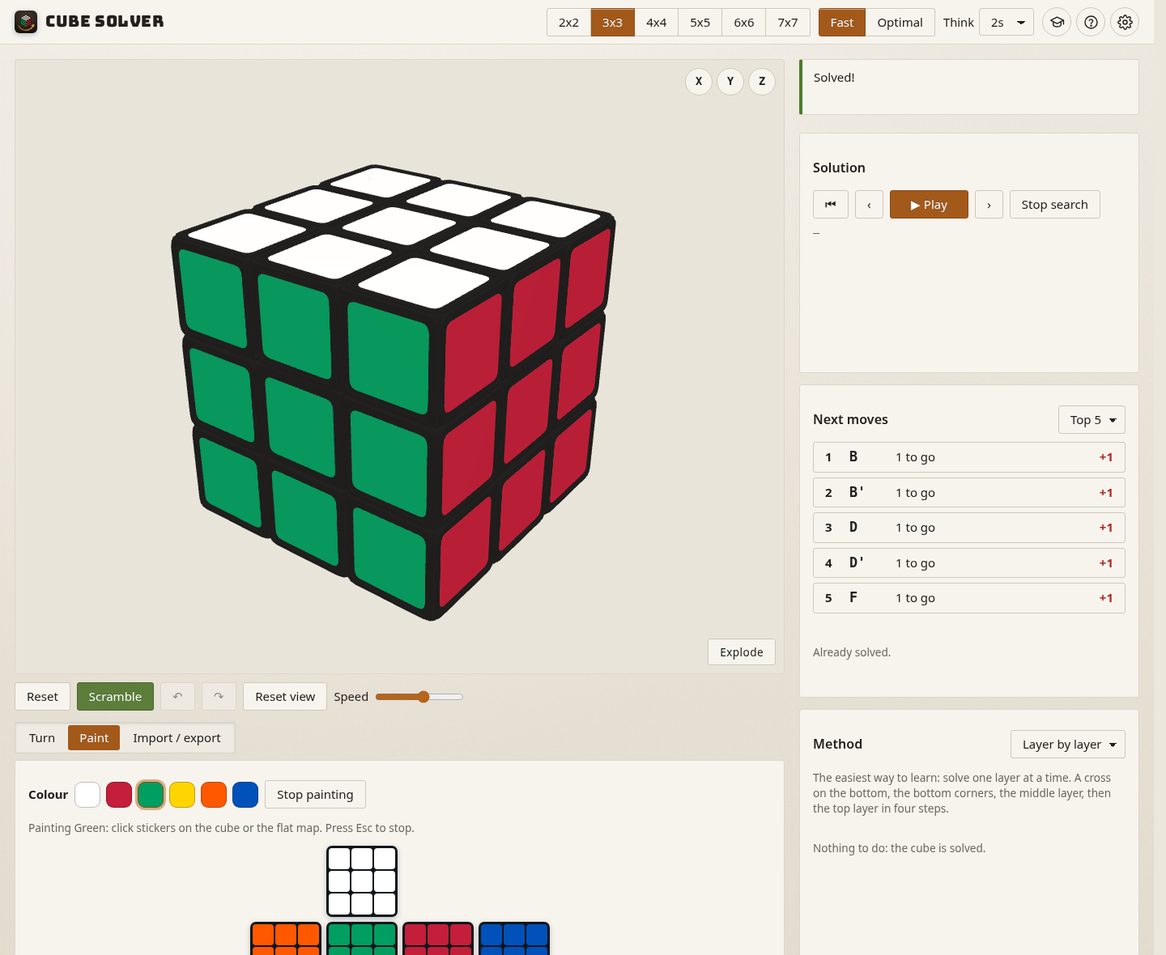
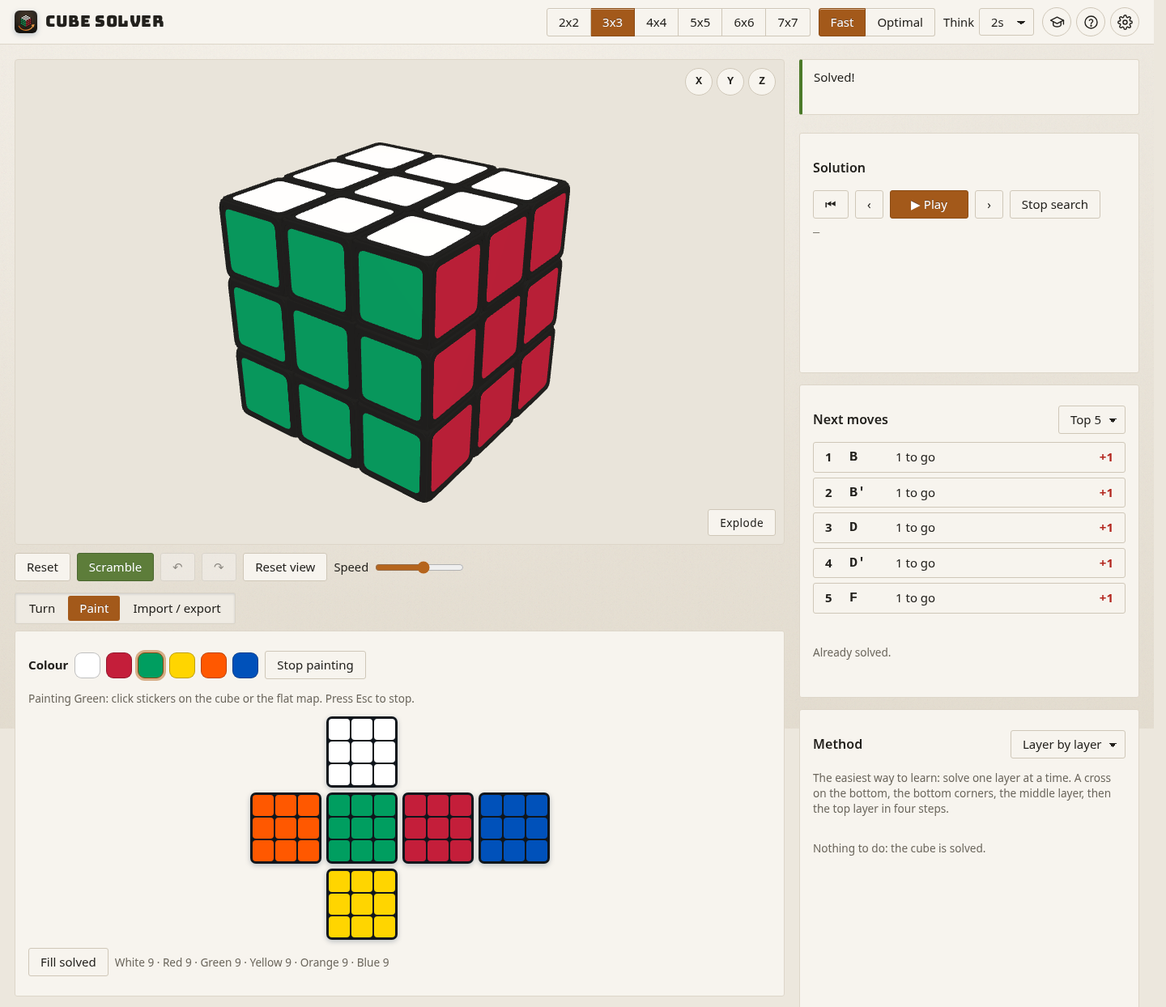
Rewrite the README for the whole app and retake the paint and Settings screenshots

diff --git a/README.md b/README.md
@@ -3,9 +3,9 @@
 <h1 align="center">Cube Solver</h1>
 
 <p align="center">
-  Set up any 2x2 or 3x3 Rubik's cube, by scrambling, turning or painting stickers, and get<br />
-  optimal or near-optimal solutions, ranked next moves, and step-by-step CFOP, Roux, ZZ<br />
-  or layer-by-layer breakdowns, all animated on a 3D cube you can grab and turn.
+  Set up any cube from 2x2 to 7x7, by scrambling, turning or painting stickers, and get<br />
+  solutions (optimal on the 2x2 and 3x3), next moves ranked by distance, and step-by-step<br />
+  breakdowns, all animated on a true-to-life 3D cube you can grab, turn, zoom into and take apart.
 </p>
 
 <p align="center">
@@ -38,50 +38,45 @@
 
 ## Contents
 
-[Features](#features) · [Download](#download) · [Quick start](#quick-start) · [Tutorial](#tutorial) · [Controls](#controls-and-shortcuts) · [Solvers](#how-the-solvers-work) · [Web / PWA / desktop builds](#building-and-packaging) · [Troubleshooting](#troubleshooting) · [Architecture](#architecture) · [Testing](#testing) · [Releasing](#releasing) · [License](#license)
+[Features](#features) · [Download](#download) · [Quick start](#quick-start) · [Tutorial](#tutorial) · [Controls](#controls-and-shortcuts) · [Solvers](#how-the-solvers-work) · [The 3D cube](#the-3d-cube) · [Theming](#theming) · [Builds](#building-and-packaging) · [Troubleshooting](#troubleshooting) · [Architecture](#architecture) · [Testing](#testing) · [Releasing](#releasing) · [Brand assets](#brand-assets) · [License](#license)
 
 ## Features
 
-**Cubes and input**
-- 2x2 to 7x7 cubes in 3D modelled on the real puzzles: hollow pieces with inset stickers, and the 6x6 and 7x7 with pillowed (spherical) faces. Drag a sticker to turn its layer, with mouse, pen or touch. Drag the background to look around (or right-drag / Shift-drag from anywhere), and scroll or pinch to zoom.
-- Keyboard turns for every face (U R F D L B), the middle slices (M E S) and whole-cube rotations (x y z). Add Shift for counter-clockwise. Small **X Y Z** buttons in the corner of the cube view do the same whole-cube rotations (Shift-click for prime).
-- A move pad with all 36 turns, and a box for typing algorithms in standard notation (`R U R' U'`, `F2`, `M'`, `Rw`, `x`).
-- **Setup:** paint any sticker from the colour menu, either on the 3D cube or on a **flat 2D net editor**. The net is all buttons, so it works from the keyboard and with screen readers.
-- **Solvability check:** impossible states are explained, for example wrong colour counts, a corner that can't exist, a twisted corner, a flipped edge, or two swapped pieces (parity).
-- **Reset**, random-state **Scramble** (every position equally likely). The scramble plays turn by turn, a bit quicker than normal playback, and every turn goes into the history, so **Undo** walks back through it one turn at a time until the cube is solved again. Click any move in the **history** to walk there, forwards or backwards, one animated turn at a time.
-- **Import/export:** facelet string (Kociemba's URFDLB format), JSON (state, moves and solution), the solution as text, a downloadable `.json`, and **share links** that carry the cube state in the URL.
+**Cubes**
+- **Six sizes, 2x2 to 7x7**, switched with the size buttons or keys <kbd>2</kbd>–<kbd>7</kbd>. Every size starts solved.
+- **True to life in 3D:** hollow plastic pieces with rounded edges, and stickers set slightly into each piece with a black ridge around them, in every theme. The 2x2 to 5x5 are flat; the 6x6 and 7x7 have **pillowed faces** like the V-Cube 6b and 7, a true spherical curve through each face's corners that bends the pieces themselves.
+- **Exploded view** on every size shows the real mechanism inside (see [The 3D cube](#the-3d-cube)).
+- **Zoom right into the cube:** scroll or pinch from 2.5x out to a few hundredths of a cubie from the centre, to look at the mechanism from inside.
 
-- **Exploded view** (**Explode** button in the cube view, or <kbd>G</kbd>) works on 2x2 and 3x3. Every piece glides outward along the line from the cube's centre to its home slot, so corners travel furthest and centres least. The motion is ease-in-out over 0.9 s, with a slight sweep around the cube. Dashed cyan guide lines trace each piece back to its slot, faint violet ghost outlines mark the empty slots, and a perspective grid fades in below. **Assemble** (or <kbd>G</kbd> again) reverses smoothly from wherever the animation is. While exploded, orbiting and painting still work, and layer turns, undo/redo and solution playback pause with a short hint, so the cube's state can never get out of step with the picture. Reduced motion makes it instant. On the 2x2 the pieces spread farther, the camera pulls back to keep everything in frame, and the internal mechanism appears: six thin axle spindles meeting at the centre (no core block), springs and screws under hidden centre caps that lift slightly clear, and the foot on each corner that clips under the caps, so the corners float around the axles. On the 3x3 the inside of a real cube appears: a fixed core with six arms, and hollow centres, each a shell open toward the core with an inner tube the arm enters. The centre's outer face is flat (the covered cap recess is folded into it). The screw runs from under the face through the tube into the arm, with the spring in the tube under its head, so nothing ever shows on the face. The screw and spring belong to the centre: on explode each whole centre assembly slides off its arm as one rigid unit, and the screw and spring show only through its open inner side. Edges and corners have no holes; edge feet ride in the track under the centres and corner feet sit under the edges. The mechanism is matte grey plastic and only shows while exploded.
+**Turning and setup**
+- **Drag a sticker** to turn its layer, with mouse, pen or touch, on any size and any layer, from any viewing angle. Drag the background (or right-drag / <kbd>Shift</kbd>-drag anywhere) to look around.
+- **Keyboard:** U R F D L B turn the faces, M E S the 3x3 slices, x y z rotate the whole cube; <kbd>Shift</kbd> for counter-clockwise. **X Y Z** buttons on the cube view do the rotations too.
+- A **move pad** and a box for typing algorithms (`R U R' U'`, `F2`, `M'`, `Rw`, `x`, and on big cubes SiGN layers such as `2R` or `3Rw`).
+- **Paint** a real cube's colours on the 3D cube or on a flat **net** that scales to fit any size. The net is all buttons, so it works from the keyboard and with screen readers.
+- **Solvability check:** impossible states are explained (wrong colour counts, impossible or twisted corners, flipped edges, parity).
+- **Import / export:** facelet strings, JSON, the solution as text, a downloadable `.json`, and **share links** that carry the cube in the URL.
+
+**Scrambles, history and playback**
+- **Scramble** plays turn by turn, a little faster than normal playback (about 1.75x the speed slider, 60–260 ms a turn), and every turn goes into the history. Random-state on the 2x2 and 3x3; random single-layer turns on big cubes (40 on a 4x4 up to 100 on a 7x7).
+- **Two-way timeline:** the **History** list shows every move, scrambles included. Click any move to walk there, forwards or backwards, one animated turn at a time; **Undo**/**Redo** step through it.
+- **Solution timeline:** play/pause, step forward and back, back to start, or click any move to play up to it. Long solutions scroll in their own box that follows the current move, with the controls always in view.
+- **Speed slider** sets the pace of every animation: turns, solutions, method steps and scrambles. The system's reduced-motion setting is respected.
 
 **Solving**
-- **2x2: always optimal.** A complete table of all 3,674,160 positions (built in under a second) gives the shortest solution and the exact distance for every candidate move.
-- **3x3 Fast:** Kociemba's two-phase algorithm. It finds about 20 moves in milliseconds, keeps improving while it thinks, and streams every better solution to the screen. Positions within about 12 quarter turns of solved are also proven optimal automatically.
-- **3x3 Optimal:** Korf-style IDA* with five pattern databases (two corner groups and three five-edge groups) for the proven-shortest solution in quarter turns. It shows live progress (depth proven, positions searched) and can be stopped at any time. If the think time runs out, you get the fast solution plus how far the proof reached.
-- **Ranked next moves:** all 12 quarter turns, each with its distance to solved and the change it makes (-1 is progress). Proven distances are shown plainly; estimates are marked with ≈. Ties are broken by a proven lower bound.
-- **Method breakdowns** for the 3x3:
-  - **Layer by layer:** cross, first-layer corners, middle layer, then the last layer in four steps.
-  - **CFOP:** cross, four F2L pairs (the easiest pair first), then two-look OLL and two-look PLL.
-  - **Roux:** first block, second block, CMLL, then the last six edges with M and U.
-  - **ZZ:** EOLine (edge orientation solved exactly, then DF and DB placed), F2L with R, U and L only, then the last layer.
-
-  Each step is named and counted. Play any step on its own, or play them all.
-- **Notation everywhere:** standard WCA notation. Counts use the **quarter-turn metric** (U2 counts as two), with the half-turn count alongside.
-- **Playback:** play/pause, step forward and back, back to start, click any move to play up to it, and adjustable animation speed. Long queues speed up automatically, and the system's reduced-motion setting is respected.
+- **2x2: always optimal** from a complete table of all 3,674,160 positions.
+- **3x3 Fast:** Kociemba's two-phase algorithm, about 20 moves in milliseconds, improving while it thinks.
+- **3x3 Optimal:** IDA* with pattern databases for the proven-shortest solution, with live progress and a Stop button.
+- **4x4 to 7x7: reduction**, the way people solve them by hand: parity, centres, edges, then the 3x3 stage.
+- **Next moves ranked by distance:** every possible turn with how far it leaves you from solved and the change it makes (−1 is progress). Proven distances are shown plainly; estimates are marked ≈ (always on big cubes).
+- **Methods:** Layer by layer, CFOP, Roux and ZZ on the 3x3; the reduction steps on big cubes. Each step is named and counted; play one step or all of them.
+- Counts use the **quarter-turn metric** (U2 counts as two), with the half-turn count alongside.
 
 **App**
-- Runs in the **browser**, installs as an offline **PWA**, and installs on **Windows** as a desktop app of about 2 MB (Tauri).
-- **Update check** against GitHub releases: automatic at startup in release builds, and on demand with ⟳.
-- **Frutiger Aero look:** glossy glass panels over a sky-and-bubbles backdrop, aqua pill buttons with a specular top half, a sky-blue and fresh-green palette, soft layered shadows, and lacquered stickers on the 3D cube. Light and dark (night-sky glass) variants follow the system until you pick one with the moon button.
-- Built on design tokens, so the planned neon and matte skins are just variable sets (preview with `?skin=neon` or `?skin=matte`). Respects reduced motion and reduced transparency (solid panels, no blur). Settings are remembered.
-- An interactive tutorial (below), a keyboard shortcut sheet, an error banner with Reload if anything goes wrong, and a solver that restarts itself if it crashes.
-- A responsive layout for phones and tablets. Every control has an accessible name, and keyboard focus is always visible.
-- The UI thread never runs solver work: everything heavy happens in a Web Worker, and solver tables are cached in IndexedDB.
-
-**Tutorial**
-- An interactive **notation course** of 14 short lessons: the faces U D L R F B, prime ('), double (2), the slices M E S, wide moves (Rw), the rotations x y z, and quarter-turn counting. Each lesson spotlights the layer on the 3D cube, animates the move, then asks you to play it and checks your answer. Ends with a 6-question quiz.
-- A 10-step **spotlight tour** of the app. It highlights each part, lets you try it right there, and uses touch wording on phones.
-- Offered on first launch, can be skipped, and is always available from the 🎓 Tutorial menu, where you can resume where you stopped or replay. Progress is saved.
-- Wide-screen layout: the cube and its panel use all the spare width, the side panel keeps one width, and buttons never jump around. Long solutions and the history scroll in their own boxes, following the current move, with the play controls always in view. The paint map shrinks to fit even a 7x7.
+- Runs in the **browser**, installs as an offline **PWA**, and installs on **Windows** as a desktop app of about 2 MB (Tauri 2).
+- **Four themes** (Matte, Frutiger Aero, Neon, Neubrutalism), each light and dark, in **Settings** (⚙) with the update check and About.
+- An interactive **tutorial** and app **tour**, a shortcut sheet, an error banner with Reload, and a solver that restarts itself if it crashes.
+- A wide-screen layout whose buttons stay put: fixed panel heights and a reserved scrollbar gutter, so nothing shifts as solutions and analysis change. It folds to one column on phones and tablets. Every control has an accessible name and visible focus.
+- Solver work never runs on the UI thread: it happens in a Web Worker, and solver tables are cached in IndexedDB.
 
 ## Download
 
@@ -141,7 +136,7 @@ The dots across the top jump to any lesson, and **Show again** repeats the demon
 11. Share and export
 
 - **Try it in place.** Clicks inside the spotlight reach the real control. A step can ask you to spin the view, drag a sticker or press Scramble, and the tour stays open. The dimmed area is four click-catching rectangles around the hole, not a full-screen blocker.
-- **Navigation.** An "N of 10" counter, plus **Skip**, **Back** and **Next** (**Done** on the last step). The ← → keys move between steps. **Esc** or clicking the dimmed area closes the tour. Nothing advances on its own.
+- **Navigation.** An "N of 11" counter, plus **Skip**, **Back** and **Next** (**Done** on the last step). The ← → keys move between steps. **Esc** or clicking the dimmed area closes the tour. Nothing advances on its own.
 - **Placement.** The card parks beside large targets such as the 3D cube, and below or above small ones, always on screen. On phones it docks to the bottom. Each target is scrolled into view first, and everything repositions on resize and scroll.
 - **Adapting.** Steps whose target isn't visible, such as the 3x3-only method card on a 2x2, are dropped. On touch screens the steps say "tap" and "swipe" instead of "click" and "drag".
 - **Accessibility.** The card is a modal dialog with a focus trap. Tab stays inside it, and closing returns focus to where you were.
@@ -153,21 +148,21 @@ The dots across the top jump to any lesson, and **Show again** repeats the demon
 
 | Control | What it does |
 |---|---|
-| Drag a sticker | Turn that layer in the drag direction (outer layers and, on the 3x3, the middle slices) |
+| Drag a sticker | Turn that layer in the drag direction: any layer, any size, any viewing angle |
 | Drag the background | Rotate the view |
 | Right-drag, or <kbd>Shift</kbd>+drag | Rotate the view from anywhere, even starting on a sticker (it never turns a layer) |
-| Scroll / pinch | Zoom (all the way inside the cube to see the mechanism) |
+| Scroll / pinch | Zoom, from 2.5x out to right inside the cube to see the mechanism |
 | **Reset** (<kbd>Alt</kbd>+<kbd>R</kbd>) | Back to solved |
 | **Scramble** (<kbd>Alt</kbd>+<kbd>S</kbd>) | Random-state scramble, played turn by turn from solved (about 1.75x the slider speed, 60-260 ms a turn) and recorded in the history; its moves appear in the move box. Undo or any new action stops it where it is |
 | ↶ / ↷ (<kbd>Ctrl</kbd>+<kbd>Z</kbd> / <kbd>Ctrl</kbd>+<kbd>Y</kbd> or <kbd>Ctrl</kbd>+<kbd>Shift</kbd>+<kbd>Z</kbd>) | Undo / redo a move |
 | **Reset view** (<kbd>Alt</kbd>+<kbd>V</kbd>) | The standard view: white on top, green in front (so red is R and orange is L), seen from slightly above with the front-right corner toward you. The camera is re-centred on the cube and its distance is fitted to the window (field of view and aspect), so the whole cube shows with a margin on any screen. The first load uses the same framing. Also undoes any x/y/z rotations, played as rotation moves so history stays consistent |
-| **Speed** slider | Animation speed |
+| **Speed** slider | Pace of every animation: turns, solution and method playback, scrambles |
 | <kbd>U</kbd> <kbd>R</kbd> <kbd>F</kbd> <kbd>D</kbd> <kbd>L</kbd> <kbd>B</kbd> | Turn a face clockwise; with <kbd>Shift</kbd>, counter-clockwise |
 | <kbd>M</kbd> <kbd>E</kbd> <kbd>S</kbd> | Middle slices (3x3 only) |
 | <kbd>X</kbd> <kbd>Y</kbd> <kbd>Z</kbd>, or the **X Y Z** buttons on the cube | Rotate the whole cube a quarter turn (x like R, y like U, z like F); <kbd>Shift</kbd>+key or <kbd>Shift</kbd>+click for the prime. Rotations move no pieces |
-| <kbd>G</kbd>, or **Explode** / **Assemble** | Exploded view on and off. Turns pause while exploded; orbiting and painting work |
-| <kbd>2</kbd> / <kbd>3</kbd>, or the **2x2 / 3x3** buttons | Switch cube size (starts solved) |
-| **Fast / Optimal** | 3x3 solver mode |
+| <kbd>G</kbd>, or **Explode** / **Assemble** | Exploded view with the mechanism, on every size. Turns pause while exploded; orbiting and painting work |
+| <kbd>2</kbd>–<kbd>7</kbd>, or the size buttons | Switch cube size, 2x2 to 7x7 (starts solved) |
+| **Fast / Optimal** | 3x3 solver mode (the 2x2 is always optimal; big cubes use reduction) |
 | **Think** | Time limit for the search (1–60 s) |
 | <kbd>Space</kbd> / **▶ Play** | Play or pause the solution |
 | <kbd>→</kbd> / <kbd>←</kbd>, **›** / **‹** | Step the solution forward / back |
@@ -175,7 +170,7 @@ The dots across the top jump to any lesson, and **Show again** repeats the demon
 | Click a solution move | Play up to that move |
 | Click a candidate | Play that move |
 | **Stop search** | Stop thinking and keep the best solution so far |
-| **Method** menu | Layer by layer, CFOP, Roux or ZZ; **Play step** / **Play all steps** |
+| **Method** menu | Layer by layer, CFOP, Roux or ZZ on the 3x3; reduction steps on big cubes. **Play step** / **Play all steps** |
 | **History** | Click any move to walk there, forwards or backwards, one animated turn at a time; • is the start, the highlighted move is where you are. ← steps back through the history when no solution is being followed |
 | **Paint** tab | Colour swatches (<kbd>1</kbd>–<kbd>6</kbd>), then click stickers on the cube or the net; <kbd>0</kbd> or <kbd>Esc</kbd> stops painting. With no colour picked, clicking a net sticker cycles its colour |
 | **Fill solved** | Reset the net to a solved cube |
@@ -184,7 +179,7 @@ The dots across the top jump to any lesson, and **Show again** repeats the demon
 | **🎓** | Tutorial menu: notation lessons, quiz and app tour (resume or replay) |
 | **⚙** | Settings: theme and light/dark/system, Check for updates, and About (the version). <kbd>Esc</kbd> closes it |
 
-**Facelet string format:** 54 letters (24 for the 2x2), one per sticker, faces in the order U, R, F, D, L, B, each read row by row as on the unfolded net, using the face letters as colours. A solved 3x3 is `UUUUUUUUURRRRRRRRRFFFFFFFFFDDDDDDDDDLLLLLLLLLBBBBBBBBB`. Share links use the same string: `#n=3&f=<facelets>`.
+**Facelet string format:** 6·N² letters (24 for the 2x2, 54 for the 3x3, 294 for the 7x7), one per sticker, faces in the order U, R, F, D, L, B, each read row by row as on the unfolded net, using the face letters as colours. A solved 3x3 is `UUUUUUUUURRRRRRRRRFFFFFFFFFDDDDDDDDDLLLLLLLLLBBBBBBBBB`. Share links use the same string: `#n=<size>&f=<facelets>`.
 
 ## How the solvers work
 
@@ -214,7 +209,24 @@ Inner layers use SiGN notation: `2R` turns only the second layer from the right,
 
 **Next moves on big cubes** rank every single-layer quarter turn by the length of the reduction solution from the resulting position. That measures progress through the reduction, not a proven distance, so every number is marked ≈.
 
-**Mechanism.** The exploded 4x4 shows the Rubik's Revenge ball core: eight raised triangles leave three grooves that the centres' cams ride in, while edges and corners hook onto their neighbours. The 5x5 to 7x7 show the V-Cube design: a solid cross with every piece on a conical stalk ending in a curved foot, the corners reaching nearly to the centre (the 6x6's cross ends in six hidden fixed centres). On odd cubes the edges are paired to their middle piece (midge), so parity there is just the one inner-slice turn.
+On odd cubes the edges are paired to their middle piece (midge), so parity there is just the one inner-slice turn; even cubes take their colour scheme from a corner.
+
+## The 3D cube
+
+The cube is drawn with three.js. Each piece is a hollow shell, open toward the core, with rounded edges and a raised black ridge around a slightly recessed rounded sticker. Pieces of the same shape share one geometry, so even the 7x7 (about 1,050 meshes) orbits smoothly.
+
+**Pillowing.** The 6x6 and 7x7 faces are each a spherical cap through the face's four corners (bulging 0.42 and 0.48 cubie units at the middle). The pieces bend with it, not just the stickers, so the plastic and stickers stay flush. The 2x2 to 5x5 stay flat, like the common real puzzles.
+
+**Exploded view** (**Explode**, or <kbd>G</kbd>). Every piece glides outward along the line from the centre to its home slot, with dashed guide lines back to each slot, ghost outlines of the empty slots and a grid below. **Assemble** reverses smoothly from wherever the animation is. While exploded, orbiting and painting still work, and turns and playback pause with a hint, so the picture never gets out of step with the cube. Every mechanism part is drawn from both sides, so nothing vanishes when you zoom in among them. The mechanism in each size follows the real design:
+
+| Size | Mechanism shown | Based on |
+|---|---|---|
+| 2x2 | Six thin axle spindles meeting at the centre, springs and screws under hidden centre caps, and a foot on each corner clipping under the caps | The common 2x2 design with a hidden 3x3-style core |
+| 3x3 | A fixed core with six arms; hollow centres with a tube the arm enters, the screw and spring inside; edge feet in the track under the centres, corner feet under the edges | The standard 3x3 mechanism |
+| 4x4 | A ball core carrying eight raised spherical triangles that leave three perpendicular grooves; only the centres reach the ball, on cams in the grooves; edges hook onto centres and corners onto edges | Sebestény's Rubik's Revenge, [US 4,421,311](https://patents.google.com/patent/US4421311A); Wikipedia "Rubik's Revenge"; twistypuzzles.com puzzle database |
+| 5x5–7x7 | A solid 3D cross; every piece is a cubic part on a conical stalk ending in a foot that is a piece of a spherical shell; the corners reach nearly to the centre; odd cubes screw their fixed centres to the cross, and the 6x6's cross ends in six hidden fixed centres | Verdes' V-Cube, EP1599261 / US 2007/0057455; Wikipedia "V-Cube 6", "V-Cube 7" and "Professor's Cube"; v-cubes.com and its 2026 catalogue |
+
+The 5x5 stays flat because the common real 5x5 is flat (V-Cube offers pillowed versions of every size "except the V-5"). The research notes are in [PLAN.md §10](PLAN.md).
 
 ## Theming
 
@@ -226,7 +238,7 @@ The look is built in two layers:
 | Components | `src/style.css` | Panels, buttons, tabs, toggles, dialogs, tour and coach cards. These read tokens only (a test fails if they use an undeclared one) |
 | Scene | `src/theme/skins.ts` | The 3D side of each skin: plastic colour and roughness, sticker clear-coat gloss, and ambient, key, sky and rim lights for light and dark |
 
-There are four themes. Pick one in **Settings** (the gear at the top right), or with **Settings…** in the help menu. Settings also holds Check for updates and the version (About). The choice applies instantly and is saved (`cube-solver-skin` and `cube-solver-theme` in `localStorage`).
+There are four themes. Pick one in **Settings** (⚙ at the top right, or **Settings…** in the help menu), along with Light, Dark or System. Settings also holds **Check for updates** and **About** (the version). It is a modal dialog: keyboard and touch friendly, <kbd>Esc</kbd> or a click outside closes it, and the chosen options are marked with a fill and a ✓. The choice applies instantly and is saved (`cube-solver-skin` and `cube-solver-theme` in `localStorage`).
 
 | Theme | Modes | Look |
 |---|---|---|
@@ -235,22 +247,10 @@ There are four themes. Pick one in **Settings** (the gear at the top right), or 
 | **Neon** | Light, dark | Dark: deep surfaces, glowing cyan edges and a faint grid that pair with the exploded view's glow lines. Light: bright clean surfaces with the same glowing cyan/violet edges and grid |
 | **Neubrutalism** | Light, dark | Flat bold colours and thick outlines with hard offset shadows: black on cream in light, light outlines with shadows in cube colours on charcoal in dark |
 
-Each theme also has its own corners, set by tokens per size tier (panel, card, control, chip): Matte uses 2-4px radii with a hairline double-line edge; Aero rounds only the top corners with a gloss band; Neon chamfers panel corners with a glowing line along each cut; Neubrutalism stays nearly square and lets the heavy outline and offset shadow do the work. Focus rings follow each shape. Every theme has light and dark, each with its own 3D lighting and plastic. Light, Dark or System applies to all of them; System follows the OS setting live, without a reload. `?skin=neon` (or `matte`, `aero`, `brutal`) previews a theme without saving it. Every theme defines every token, which a test checks. Under reduced transparency, panels become solid and blur is turned off; reduced motion also removes the Neubrutalism press nudge. Contrast is checked in tests to meet WCAG AA for body text, muted text and text on buttons in every theme. Selects and their native option lists take solid colours from the theme so they stay readable on Windows.
+The title uses the bundled Bungee font, styled per theme. Each theme also has its own corners, set by tokens per size tier (panel, card, control, chip): Matte uses 2-4px radii with a hairline double-line edge; Aero rounds only the top corners with a gloss band; Neon chamfers panel corners with a glowing line along each cut; Neubrutalism stays nearly square and lets the heavy outline and offset shadow do the work. Focus rings follow each shape. Every theme has light and dark, each with its own 3D lighting and plastic. Light, Dark or System applies to all of them; System follows the OS setting live, without a reload. `?skin=neon` (or `matte`, `aero`, `brutal`) previews a theme without saving it. Every theme defines every token, which a test checks. Under reduced transparency, panels become solid and blur is turned off; reduced motion also removes the Neubrutalism press nudge. Contrast is checked in tests to meet WCAG AA for body text, muted text and text on buttons in every theme. Selects and their native option lists take solid colours from the theme so they stay readable on Windows.
 
 <p align="center"><img src="docs/screenshot-theme-picker.png" width="700" alt="Settings: the theme picker with swatch previews of the four themes, light/dark/system, update check and About" /></p>
 <p align="center"><img src="docs/screenshot-brutal.png" width="700" alt="The Neubrutalism theme: flat colour, thick outlines, hard shadows" /></p>
-
-## Brand assets
-
-The logo is original artwork: an isometric cube with inset, rounded stickers on black plastic (like the 3D cube) and a solve arrow. The SVG sources live in `brand/`:
-
-- `brand/icon.svg`: the app icon and header mark (copied to `public/icon.svg`, the favicon).
-- `brand/icon-maskable.svg`: full-bleed version with the mark inside the maskable safe zone.
-- `brand/og-image.html`: the social/OG card, rendered to `public/og-image.png` (1200x630).
-
-PNG sizes (`public/icon-192.png`, `icon-512.png`, `icon-1024.png`, `icon-maskable-512.png`) are rendered from the SVGs. The desktop icons in `src-tauri/icons/` (PNG, `.ico`, `.icns`) come from `npx tauri icon public/icon-1024.png`. README screenshots in `docs/` are taken from the running app.
-
-The title font is [Bungee](https://github.com/djrrb/Bungee) (SIL Open Font License, `src/assets/fonts/Bungee-OFL.txt`), bundled with the app, so it works offline and in the desktop app.
 
 ## Building and packaging
 
@@ -313,6 +313,7 @@ src/
     pdb.ts          pattern databases (corner and edge groups), lower bound
     optimal3.ts     3x3 Optimal (IDA* + PDBs, progress, cancel)
     rank.ts         candidate ranking by distance
+    big/            reduction for 4x4-7x7: core.ts (pieces, orbits), reduce.ts (3-cycle search, parity, phases), analyze.ts
     methods/        common.ts (piece and macro searches), lbl.ts, cfop.ts, roux.ts, zz.ts, index.ts
     analyze.ts      one full analysis: validity, solution, candidates, method (pure, tested)
     worker.ts       Web Worker: loads/builds tables (tableCache.ts, IndexedDB), runs analyze
@@ -320,22 +321,27 @@ src/
   app/
     history.ts      move history with cursor (undo/redo/jump)
     share.ts        facelet string, JSON, URL hash, import parsing
-    drag.ts         drag vector -> layer turn
+    drag.ts         drag vector -> layer turn (any size, in-face motion)
+    pace.ts         paced playback and scramble timing
     update.ts       GitHub release check
   ui/
-    scene.ts        three.js view: meshes, turn animation queue, pointer input
+    scene.ts        three.js view: meshes, mechanisms, turn animation queue, pointer input
+    pieces.ts       hollow piece shells, ridges, inset stickers, spherical pillowing (pure, tested)
+    scroll.ts       keep the current move in view inside its list
     explode.ts      exploded-view maths: easing, offsets, stagger, controller (pure, tested)
-    framing.ts      camera distance that fits the cube for any FOV/aspect (pure, tested)
+    framing.ts      camera framing and zoom limits for any FOV/aspect (pure, tested)
     net.ts          flat net editor
   theme/
-    tokens.css      design tokens per skin (aero light/dark, neon, matte)
+    tokens.css      design tokens per skin: matte, aero, neon, brutal, each light and dark
     skins.ts        scene parameters per skin, skin and theme selection (tested with the tokens)
   tutorial/
     lessons.ts      lesson, quiz and tour content; attempt checking; saved progress (pure, tested)
     tutorial.ts     coach panel, demonstrations, quiz; starts the tour
     spotlight.ts    spotlight tour: hole/dim/card geometry (pure, tested), focus trap, keys
-  main.ts           UI wiring, keyboard, dialogs, error banner
-public/             manifest, service worker, icons
+  assets/fonts/     the bundled title font (Bungee, OFL)
+  main.ts           UI wiring, keyboard, Settings and other dialogs, error banner
+public/             manifest, service worker, icons, social card
+brand/              logo and social card sources
 src-tauri/          Tauri 2 shell (Rust), config, capabilities, icons
 ```
 
@@ -353,14 +359,18 @@ npm run build       # type-check + production build
 ```
 
 The tests cover:
-- Move identities on 2x2 to 5x5, and agreement between the sticker and cubie models for all 18 moves.
+- Move identities on every size from 2x2 to 7x7, and agreement between the sticker and cubie models for all 18 moves.
 - Notation round-trips, and every solvability rule.
 - The 2x2 table: every state reached, maximum distance 14. 200 random 2x2 solves are optimal.
 - Two-phase on random scrambles and the superflip.
 - The optimal 3x3, the pattern-database bound never exceeding a proven optimum, and progress and cancel.
 - Every method breakdown on random cubes.
 - Ranking order and tie-breaking, and the full worker analysis.
-- History, import/export, share URLs, update-check version logic, and drag-to-turn geometry.
+- Big-cube reduction on every size from 4x4 to 7x7: parity, 3-cycle coverage, and full solves played back.
+- History, import/export, share URLs, paced playback, update-check version logic.
+- Drag-to-turn on every size: the expected move for drags on each face, and from five viewing angles that every drag turns the grabbed layer the way it goes.
+- Piece shells, inset stickers and pillowing (only the 6x6 and 7x7, a true sphere through the corners), camera framing and zoom limits.
+- Themes: every skin defines every token, AA contrast in all eight variants, the bundled font, the Settings dialog contents and that every icon exists.
 - The spotlight geometry: 8px padding, the four dim rectangles tiling the screen around the hole, the card beside large targets and below or above small ones, always on screen. Also visible-step filtering, the counter text, and touch wording.
 - The tutorial: every direction the lessons describe is checked against the cube model, along with attempt checking (equivalent sequences, partial progress, wrong moves), quiz answers and grading, that every tour target exists in the page, and loading saved progress, including corrupt data.
 
@@ -376,10 +386,22 @@ The [release workflow](.github/workflows/release.yml) creates the GitHub release
 
 To release by hand from Windows: `npm run desktop`, then `gh release create v<version> --notes-file docs/release-notes/v<version>.md "src-tauri/target/release/bundle/nsis/*.exe" "src-tauri/target/release/bundle/msi/*.msi"`.
 
+## Brand assets
+
+The logo is original artwork: an isometric cube with inset, rounded stickers on black plastic (like the 3D cube) and a solve arrow. The SVG sources live in `brand/`:
+
+- `brand/icon.svg`: the app icon and header mark (copied to `public/icon.svg`, the favicon).
+- `brand/icon-maskable.svg`: full-bleed version with the mark inside the maskable safe zone.
+- `brand/og-image.html`: the social/OG card, rendered to `public/og-image.png` (1200x630).
+
+PNG sizes (`public/icon-192.png`, `icon-512.png`, `icon-1024.png`, `icon-maskable-512.png`) are rendered from the SVGs. The desktop icons in `src-tauri/icons/` (PNG, `.ico`, `.icns`) come from `npx tauri icon public/icon-1024.png`. README screenshots in `docs/` are taken from the running app.
+
+The title font is [Bungee](https://github.com/djrrb/Bungee) (SIL Open Font License, `src/assets/fonts/Bungee-OFL.txt`), bundled with the app, so it works offline and in the desktop app.
+
 ## Roadmap
 
-See [PLAN.md](PLAN.md) and [progress.txt](progress.txt). Next up: stronger optimal-search tables (full corner and larger edge databases, possibly WASM) and full OLL/PLL sets. On the backlog: 4x4/5x5 by reduction, and camera scanning of a real cube.
+See [PLAN.md](PLAN.md) and [progress.txt](progress.txt). Ideas: shorter big-cube solutions (combined 3-cycles, wide-move edge pairing), stronger optimal-search tables, full OLL/PLL sets, and camera scanning of a real cube.
 
 ## License
 
-[MIT](LICENSE) © ccharafeddine. All solver code is original; no GPL code is used. Runtime dependencies: [three.js](https://threejs.org) (MIT) and, in the desktop app, [Tauri](https://tauri.app) (MIT/Apache-2.0).
+[MIT](LICENSE) © ccharafeddine. All solver code is original; no GPL code is used. Runtime dependencies: [three.js](https://threejs.org) (MIT) and, in the desktop app, [Tauri](https://tauri.app) (MIT/Apache-2.0). The title font, Bungee, is under the SIL Open Font License.
